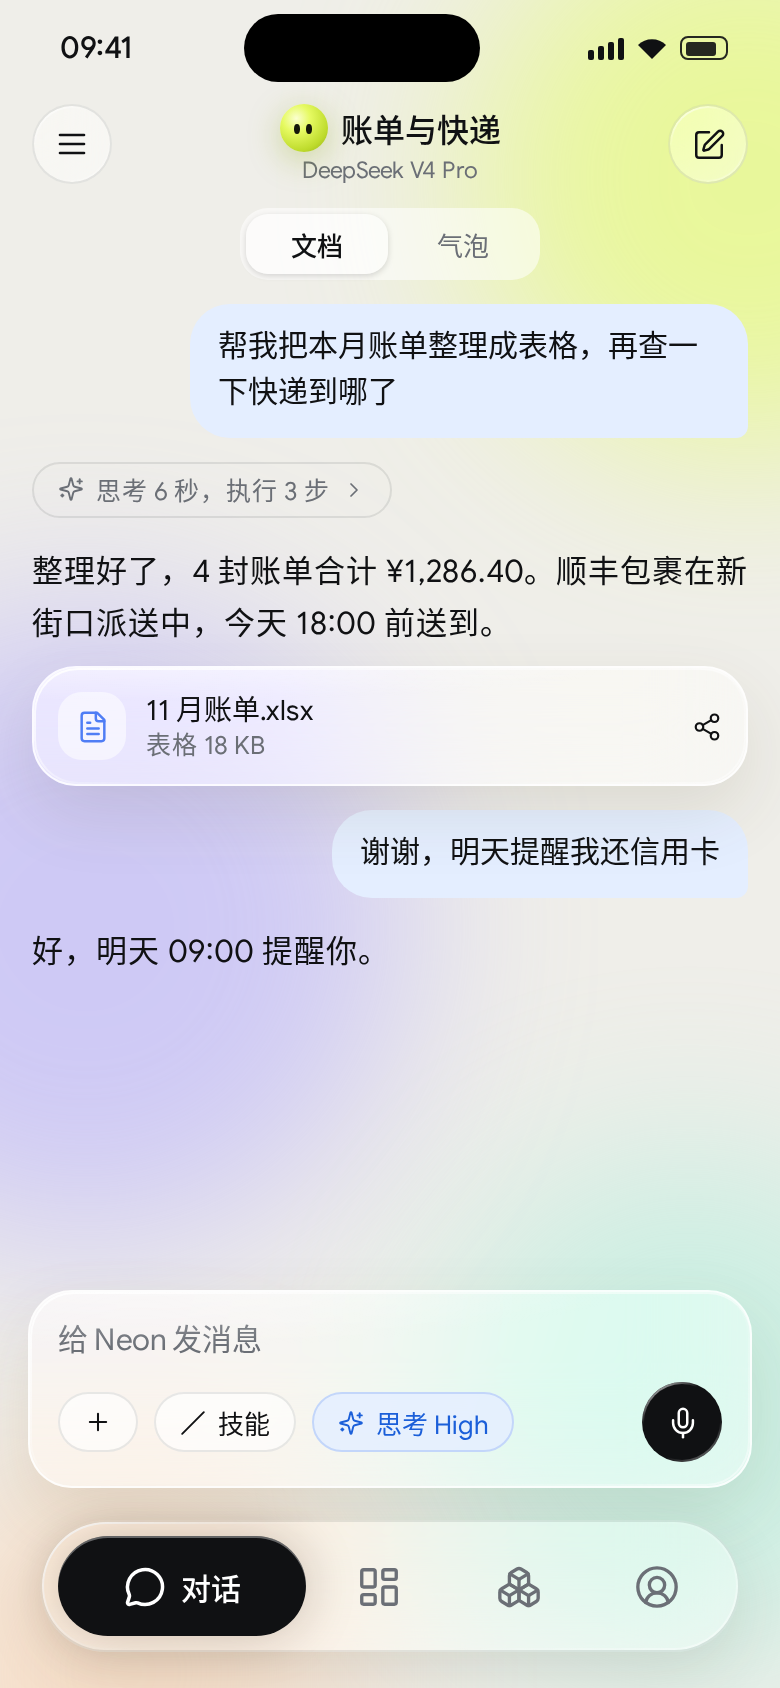
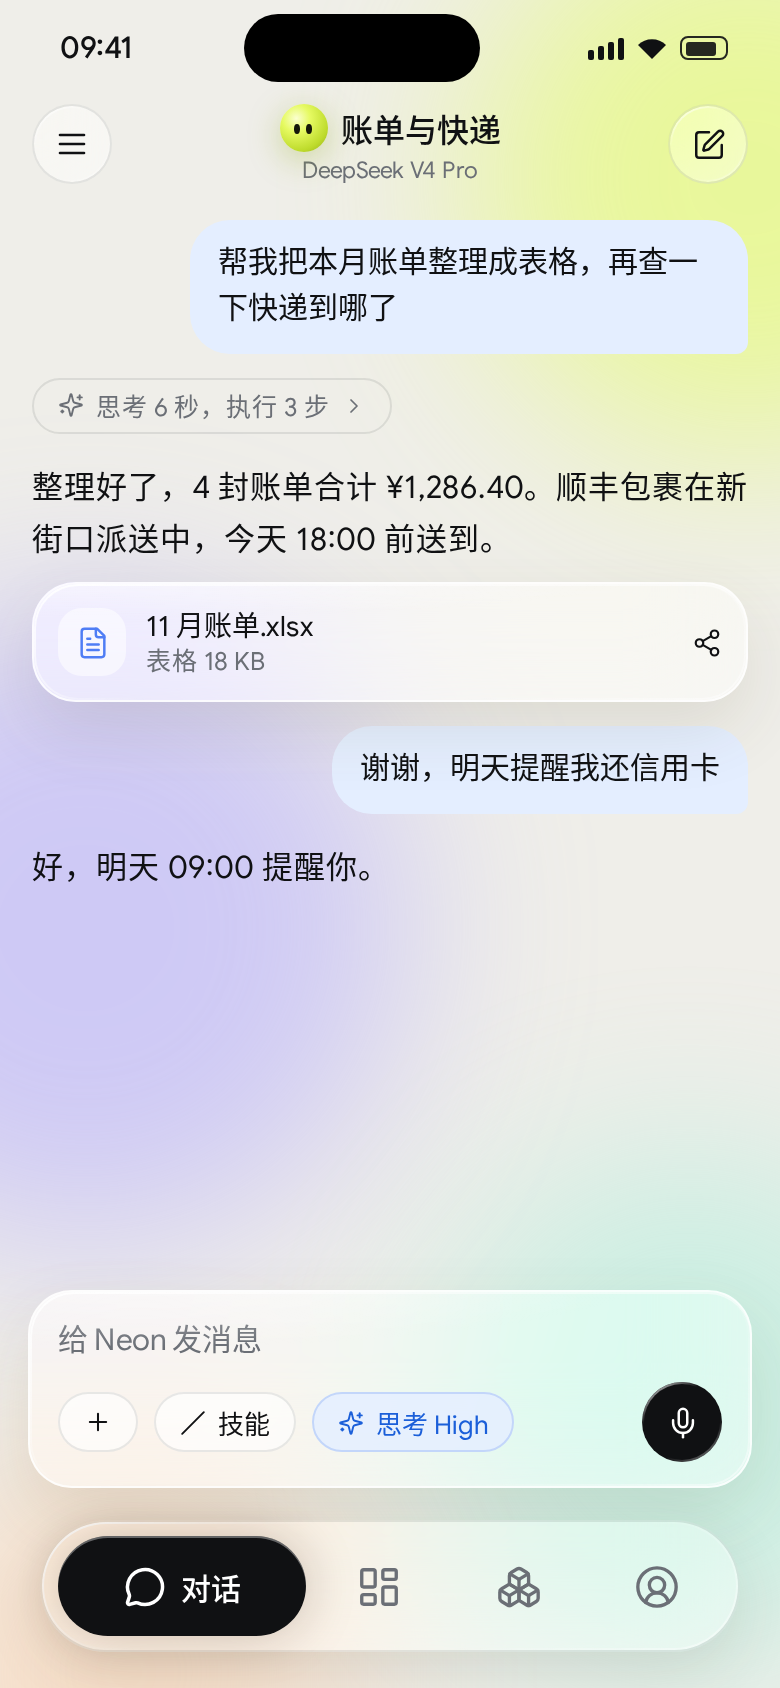
v0.4.5 交接：对话样式切换放进我的，交接文档附全部设计图

diff --git a/docs/design/v0.4.5/gen_me.py b/docs/design/v0.4.5/gen_me.py
@@ -61,6 +61,7 @@ def me():
       <div class="card" style="margin-top:10px;padding:0 14px">
         {r('key-round','模型与密钥','DeepSeek V4 Pro')}
         {r('palette','外观','跟随系统')}
+        {r('message-square','对话样式', extra=chr(60)+'div style="width:128px"'+chr(62)+seg(['文档','气泡'],1)+'</div>')}
         {r('brain','记忆与定时任务','12 条')}
         {r('info','关于 Neon','v0.4.4', last=True)}
       </div>
@@ -146,7 +147,6 @@ def chat(mode):
         <span class="muted" style="font-size:11.5px">DeepSeek V4 Pro</span></div>
       <div class="btnc">{ic('square-pen',17)}</div></div>
     <div style="padding:6px 16px 0">
-      <div style="width:150px;margin:6px auto 0">{seg2}</div>
       {user('帮我把本月账单整理成表格，再查一下快递到哪了')}
       {fold}
       {neon('整理好了，4 封账单合计 ¥1,286.40。顺丰包裹在新街口派送中，今天 18:00 前送到。', card)}

diff --git a/docs/design/v0.4.5/HANDOFF.md b/docs/design/v0.4.5/HANDOFF.md
@@ -1,17 +1,29 @@
 # v0.4.5 改版交接：我的、性格、关于你、动手前、对话样式
 
+![总览深色](board-dark.jpg)
+![总览浅色](board-light.jpg)
+![对话样式](board-chat.jpg)
+
 给接手的 AI。设计稿在 `screens/`（深浅色各一张），总览 `board-dark.jpg`、`board-light.jpg`、`board-chat.jpg`。生成脚本 `gen_me.py`（依赖 `docs/design` 外的 v036 gen.py，仅供参考，以 PNG 为准）。视觉参数沿用 `../v0.4/DESIGN.md`。文案规则：不用「A · B · C」，不加括号补充，不用斜杠列举。
 
 ## 1. 我的 `01-me`
+
+| 深色 | 浅色 |
+|---|---|
+| <img src="screens/01-me-dark.png" width="300"> | <img src="screens/01-me-light.png" width="300"> |
 文件：`ui/me/Me.kt`（`MeContent` 保持无状态，方便快照）。
 - 头部：NeonOrb 64dp，名字，下方一行由性格设置拼出：`叫你 {称呼}，说话{语气}`。右侧铅笔进入「Neon 的性格」。
 - 「关于你」卡：首字母头像，标题，副标题取背景前 20 字，进入「关于你」。
 - 两张半宽卡：「动手前」显示当前档位（如「总是允许，付款要指纹」），「操作手机」显示智能调用或常关。点开各自页面。
 - 额度：一行三个小环（36dp），替换原来的大环卡。
-- 列表：模型与密钥、外观（含对话样式）、记忆与定时任务、关于 Neon（版本号，进入关于页：版本、GitHub、许可证、检查更新）。
+- 列表：模型与密钥、外观、对话样式（行内 Segmented：文档、气泡，直接切换，不进二级页）、记忆与定时任务、关于 Neon（版本号，进入关于页：版本、GitHub、许可证、检查更新）。
 - 原「思考和命令收成一行」开关移到动手前页。
 
 ## 2. Neon 的性格 `02-persona`
+
+| 深色 | 浅色 |
+|---|---|
+| <img src="screens/02-persona-dark.png" width="300"> | <img src="screens/02-persona-light.png" width="300"> |
 新文件 `ui/me/Persona.kt`。设置键（`SettingsRepository`）：
 - `agent_name`（默认 Neon），`user_call`（怎么叫你，空表示不用称呼；快捷 chip：老板、老师、不用称呼）
 - `tone`：crisp 干脆 | gentle 温和 | friend 像朋友 | pro 专业 | witty 幽默 | brief 只说结论（默认 crisp）
@@ -20,12 +32,20 @@
 - 接入：`AgentRuntime` 的 SYSTEM 末尾追加「你叫{name}。称呼用户为{call}。语气：{tone 说明}。{tone_extra}」。
 
 ## 3. 关于你 `03-about`
+
+| 深色 | 浅色 |
+|---|---|
+| <img src="screens/03-about-dark.png" width="300"> | <img src="screens/03-about-light.png" width="300"> |
 新文件 `ui/me/AboutYou.kt`。设置键：`user_name`、`user_city`、`user_job`、`user_bio`（多行背景）、`answer_prefs`（JSON 数组，如 用中文、代码给完整文件、不要表情，可添加）。
 - 顶部说明：每次对话前 Neon 都会带上这些，只存在这台手机上。
 - 「Neon 记住的」进入现有记忆页（MemoryTasksRoute）。
 - 接入：SYSTEM 里加一段「关于用户」。空字段不写。
 
 ## 4. 动手前 `04-perms`
+
+| 深色 | 浅色 |
+|---|---|
+| <img src="screens/04-perms-dark.png" width="300"> | <img src="screens/04-perms-light.png" width="300"> |
 新文件 `ui/me/Permissions.kt`；策略在 `guard/RiskPolicy.kt`。
 - 设置键 `approval_mode`：always_ask 每次都问 | important 重要的才问（默认，对应现有行为）| always_allow 总是允许。
 - 选总是允许时显示橙色提示卡（文案见稿）。
@@ -35,12 +55,19 @@
 - 我的页「动手前」小卡副标题根据这些值生成。
 
 ## 5. 对话样式 `05-chat-doc` `06-chat-bubble`
+
+| 文档 深色 | 气泡 深色 | 文档 浅色 | 气泡 浅色 |
+|---|---|---|---|
+| <img src="screens/05-chat-doc-dark.png" width="200"> | <img src="screens/06-chat-bubble-dark.png" width="200"> | <img src="screens/05-chat-doc-light.png" width="200"> | <img src="screens/06-chat-bubble-light.png" width="200"> |
 文件：`ui/chat/Messages.kt`、`ChatScreen.kt`。
 - 设置键 `chat_style`：doc 文档（现状，Neon 回复是正文）| bubble 气泡。
 - 气泡：Neon 回复放进左侧玻璃气泡（圆角 20/20/20/6，最大宽 80%），左下角 26dp NeonOrb；文件卡、链接卡紧跟在气泡下方、同样左缩进；折叠胶囊左缩进 34dp。用户气泡不变。
 - 公式、代码块在气泡内可横向滚动，不撑破宽度。
-- 切换入口：我的 → 外观里加「对话样式 文档 / 气泡」Segmented。稿里对话页顶部的切换只是为了对比两种样子，可不做，或做成长按标题弹出。
+- 切换入口只在我的页「对话样式」那一行，对话页不放切换控件。切换后已有消息立即重排，不需要重启。
 
 ## 验证
 - 给每个新页面加 Roborazzi 测试（深浅色），放进 `ScreensSnapshotTest.kt`，与稿对照。本地 arm64 需临时把 robolectric 换成 4.18.1 并加 nativeruntime-dist-compat 1.0.20，提交前改回 4.14.1。
 - `compileDebugKotlin` 通过后再打 tag 发版。
+
+## 改稿
+改 `gen_me.py` 后在 /workspace 外也能跑：需要 playwright + chromium，以及 v036 的 gen.py、gen2.py 和 Lucide svg。改完重新导出 screens 和 board，并同步本文件。
